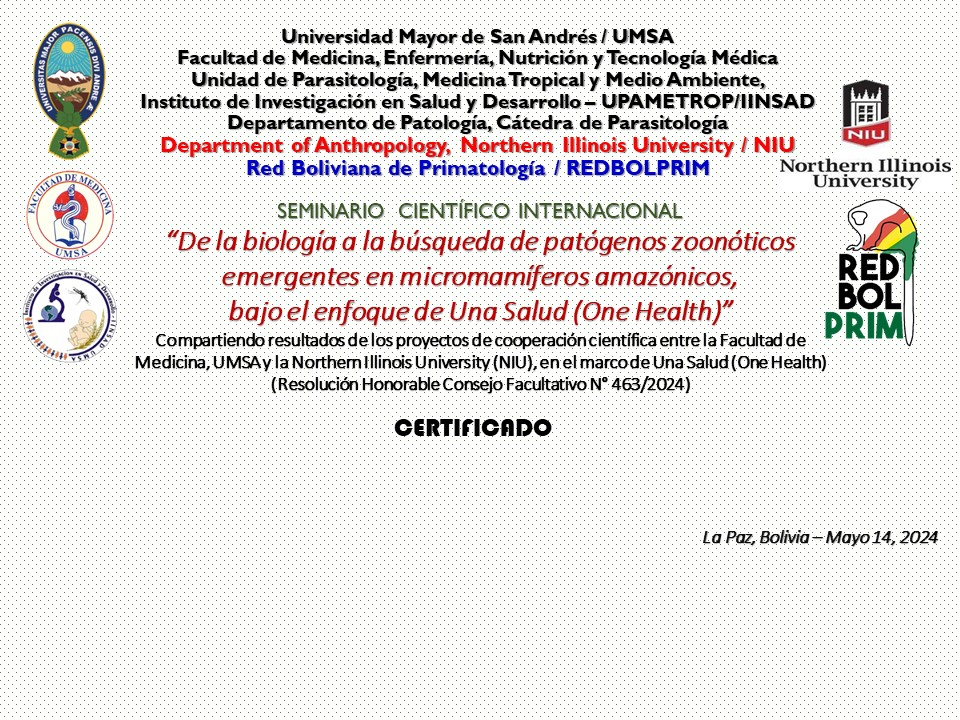
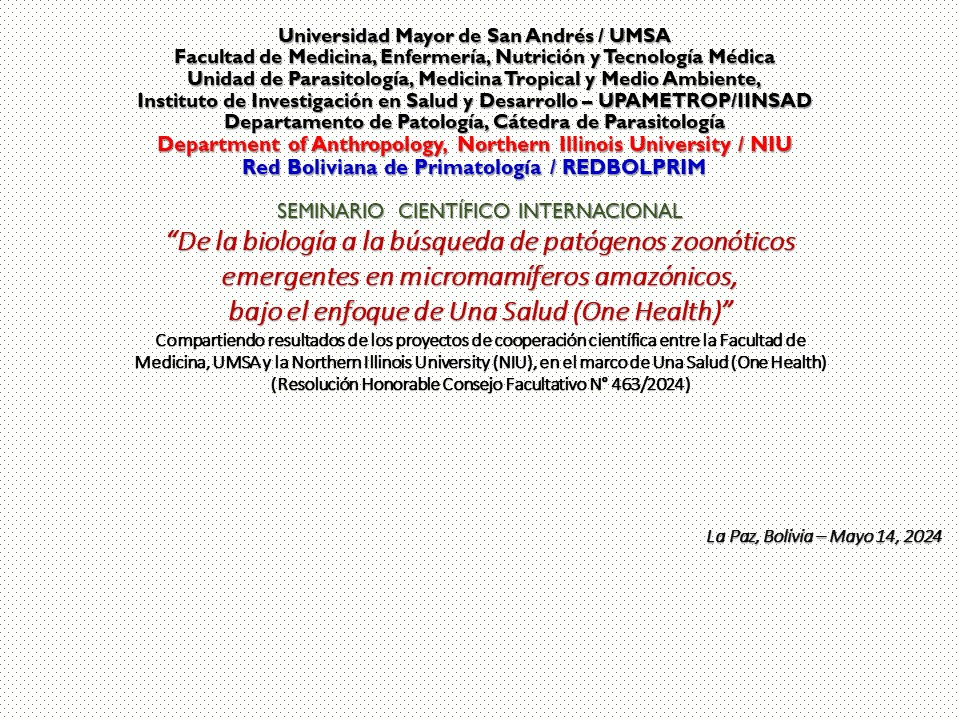
version2

Changed region(s): [[0.0, 0.0306, 1.0, 0.5194], [0.7188, 0.7333, 1.0, 0.7639], [0.4062, 0.5806, 0.5938, 0.6111]]

diff --git a/resources/views/105.blade.php b/resources/views/105.blade.php
@@ -37,6 +37,7 @@
     position: absolute;
     top: 25px; 
     left: 180px; 
+    right: 180px;
     text-align: center;
     font-size: 10px; /*Tamaño de texto*/
     font-family: 'Times New Roman', Times, serif; /*tipo de texto*/
@@ -49,7 +50,8 @@
     .titulo2{
     position: absolute;
     top: 180px; 
-    left: 200px; 
+    left: 180px; 
+    right: 180px;
     text-align: center;
     font-size: 12px; /*Tamaño de texto*/
     font-family: 'Times New Roman', Times, serif; /*tipo de texto*/
@@ -61,27 +63,29 @@
 
     .titulo3{
     position: absolute;
-    top: 220px; 
-    left: 260px; 
+    top: 205px; 
+    left: 180px; 
+    right: 180px;
     text-align: center;
     font-size: 12px; /*Tamaño de texto*/
     font-family: 'Times New Roman', Times, serif; /*tipo de texto*/
     font-weight: bold; /* Peso de la fuente en negrita */
     font-style: normal; /* Estilo de la fuente en cursiva */
     text-decoration: none; /* Subraya el texto */
-    color:rgb(41, 128, 185);
+    color:rgb(21, 101, 192);
     }
     .titulo4{
     position: absolute;
     top: 250px; 
-    left: 260px; 
+    left: 180px; 
+    right: 180px;
     text-align: center;
     font-size: 12px; /*Tamaño de texto*/
     font-family: 'Times New Roman', Times, serif; /*tipo de texto*/
     font-weight: bold; /* Peso de la fuente en negrita */
     font-style: normal; /* Estilo de la fuente en cursiva */
     text-decoration: none; /* Subraya el texto */
-    color:rgb(34, 153, 84);
+    color:rgb(51, 105, 30);
     }
     .titulo5{
     position: absolute;
@@ -98,7 +102,7 @@
     }
     .titulo6{
     position: absolute;
-    top: 390px; 
+    top: 380px; 
     left: 180px; 
     right: 180px;
     text-align: center;
@@ -148,11 +152,16 @@
     text-decoration: none; /* Subraya el texto */
     color:rgb(23, 32, 42);
     }
-
-    .firma_dina{
+    .sello{
     position: absolute;
-    top: 550px; 
-    left: 150px; 
+    top: 500px; 
+    left: 210px; 
+    }
+
+    .firma_eddy{
+    position: absolute;
+    top: 560px; 
+    left: 90px; 
     }
     .firma1{
     position: absolute;
@@ -167,10 +176,10 @@
     text-align: center;
     }
 
-    .firma_nelson{
+    .firma_ana{
     position: absolute;
-    top: 560px; 
-    left: 400px; 
+    top: 580px; 
+    left: 320px; 
     }
     .firma2{
     position: absolute;
@@ -185,10 +194,10 @@
     text-align: center;
     }
 
-    .firma_alanes{
+    .firma_villarroel{
     position: absolute;
-    top: 560px; 
-    left: 650px; 
+    top: 540px; 
+    left: 540px; 
     }
     .firma3{
     position: absolute;
@@ -206,8 +215,8 @@
     }
     .firma_decano{
     position: absolute;
-    top: 600px; 
-    right: 80px; 
+    top: 590px; 
+    left: 770px; 
     }
     .firma4{
     position: absolute;
@@ -273,10 +282,10 @@
             Department of Anthropology, Northern Illinois University / NIU
         </h1>
     </div>
-
     <div class="titulo3">
         <h1>Red Boliviana de Primatología / REDBOLPRIM</h1>
     </div>
+
     <div class="titulo4">
         <h1>SEMINARIO  CIENTÍFICO INTERNACIONAL</h1>
     </div>
@@ -291,6 +300,7 @@
         <br>(Resolución Honorable Consejo Facultativo N° 463/2024)
         </h3>
     </div>
+
     <div class="titulo7">
         <p><b>CERTIFICADO</b> </p>
     </div>
@@ -303,20 +313,27 @@
         <p>- {{ strtoupper($participante->tipo) }} -</p>
     </div>
 
+    <div class="firma_eddy">
+        <img src="{{asset('img/105/eddy.png')}}" alt="firma eddy" width="40%">
+    </div>
     <div class="firma1">
         Dr. Eddy Martínez Avendaño<br>
         <b>ORGANIZADOR</b> <br>
         UPAMETROP/IINSAD/UMSA
     </div>
 
-
+    <div class="firma_ana">
+        <img src="{{asset('img/105/ana.png')}}" alt="firma ana" width="45%">
+    </div>
     <div class="firma2">
         Dra. Ana María Aguilar Liendo<br>
         <b>DIRECTORA</b> <br>
         IINSAD/UMSA
     </div>
 
-
+    <div class="firma_villarroel">
+        <img src="{{asset('img/105/villarroel.png')}}" alt="firma villarroel" width="45%">
+    </div>
     <div class="firma3">
         Dr. Martín Villarroel Mareño<br>
         <b>VICEDECANO</b> <br>
@@ -324,12 +341,16 @@
     </div>
 
     <div class="firma_decano">
-        <img src="{{asset('img/105/decano.png')}}" alt="firma ddecano" width="170px" height="60px">
+        <img src="{{asset('img/105/decano.png')}}" alt="firma decano" width="70%">
     </div>
     <div class="firma4">
         Dr. David Mérida Vargas<br>
         <b>DECANO</b> <br>
         FACULTAD DE MEDICINA/UMSA 
+    </div>
+
+    <div class="sello">
+        <img src="{{asset('img/105/sello.png')}}" alt="sello" width="33%">
     </div>
 
     <!--QR-->

diff --git a/app/Http/Controllers/EventoController.php b/app/Http/Controllers/EventoController.php
@@ -33,13 +33,13 @@ class EventoController extends Controller
         $evento = $participante->eventos;
 
          // URL para el código QR
-         $url = "ID:$participante->id
-         Cod:  $participante->codigo
-         Nombre:$participante->nombre $participante->paterno $participante->materno
-         Cod evento: $evento->codigo
-         evento: $evento->evento
-         fecha: $evento->fecha";
-         $qr = QrCode::generate($url);
+        $url = "ID:$participante->id
+        Cod:  $participante->codigo
+        Nombre: $participante->nombre $participante->paterno $participante->materno
+        Cod evento: $evento->codigo
+        Evento: $evento->evento
+        Fecha: $evento->fecha";
+         $qr = QrCode::encoding('UTF-8')->generate($url);
 
          $html = view($evento->codigo, [
             'participante'=>$participante,
